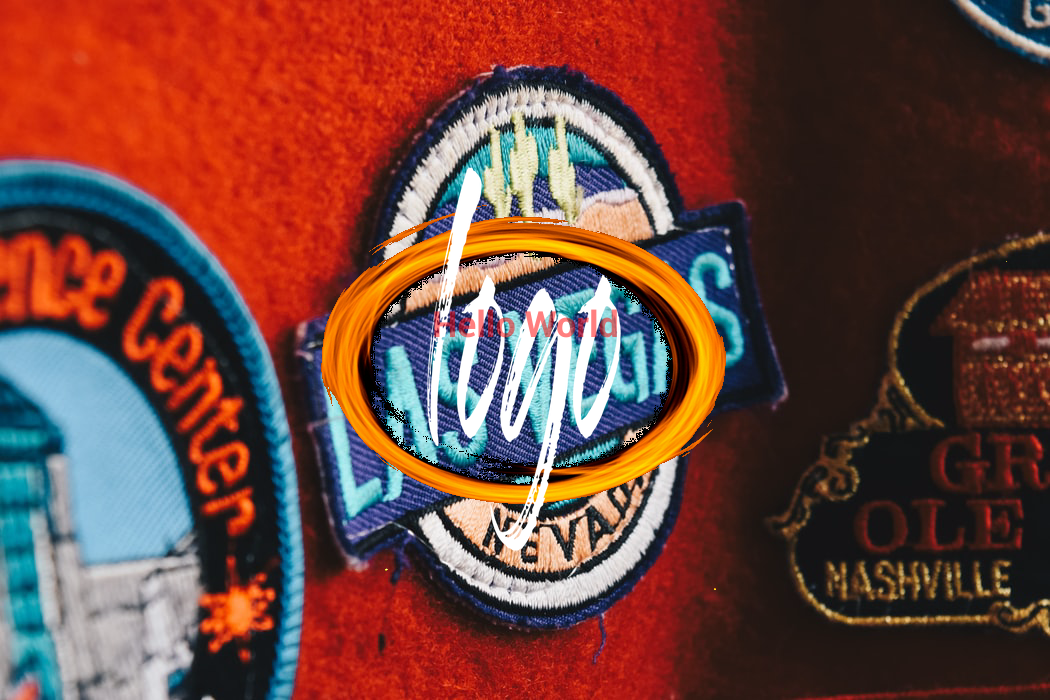
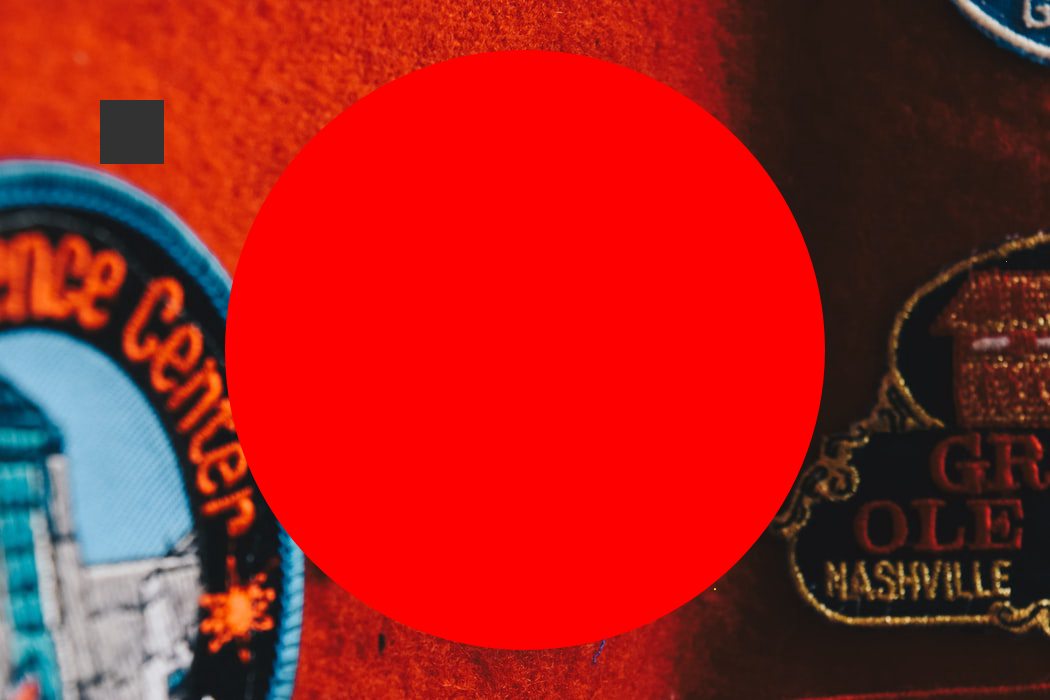
webp support

diff --git a/example/gen_test.go b/example/gen_test.go
@@ -45,8 +45,14 @@ func TestAddInt(t *testing.T) {
 			{
 				Name: "Circle",
 				Type: composer.OVAL,
-				Left: 525, Top: 350, Width: 300, Height: 300, HAlign: composer.CENTER, VAlign: composer.MIDDLE,
-				Color: "rgba(255,0,0,128)",
+				Left: 525, Top: 350, Width: 300, Height: 300,
+				Color: "rgba(255,0,0,255)",
+			},
+			{
+				Name: "rect",
+				Type: composer.RECT,
+				Left: 100, Top: 100, Width: 64, Height: 64,
+				Color: "rgba(50,50,50,255)",
 			},
 		},
 	}

diff --git a/generate.go b/generate.go
@@ -3,8 +3,8 @@ package composer
 import (
 	"fmt"
 	"github.com/chai2010/webp"
-	"github.com/fogleman/gg"
 	"github.com/nfnt/resize"
+	"gopkg.in/fogleman/gg.v1"
 	"image"
 	"image/jpeg"
 	"io"

diff --git a/composer.go b/composer.go
@@ -1,6 +1,6 @@
 package composer
 
-import "github.com/fogleman/gg"
+import "gopkg.in/fogleman/gg.v1"
 
 type Image struct {
 	Width   int
